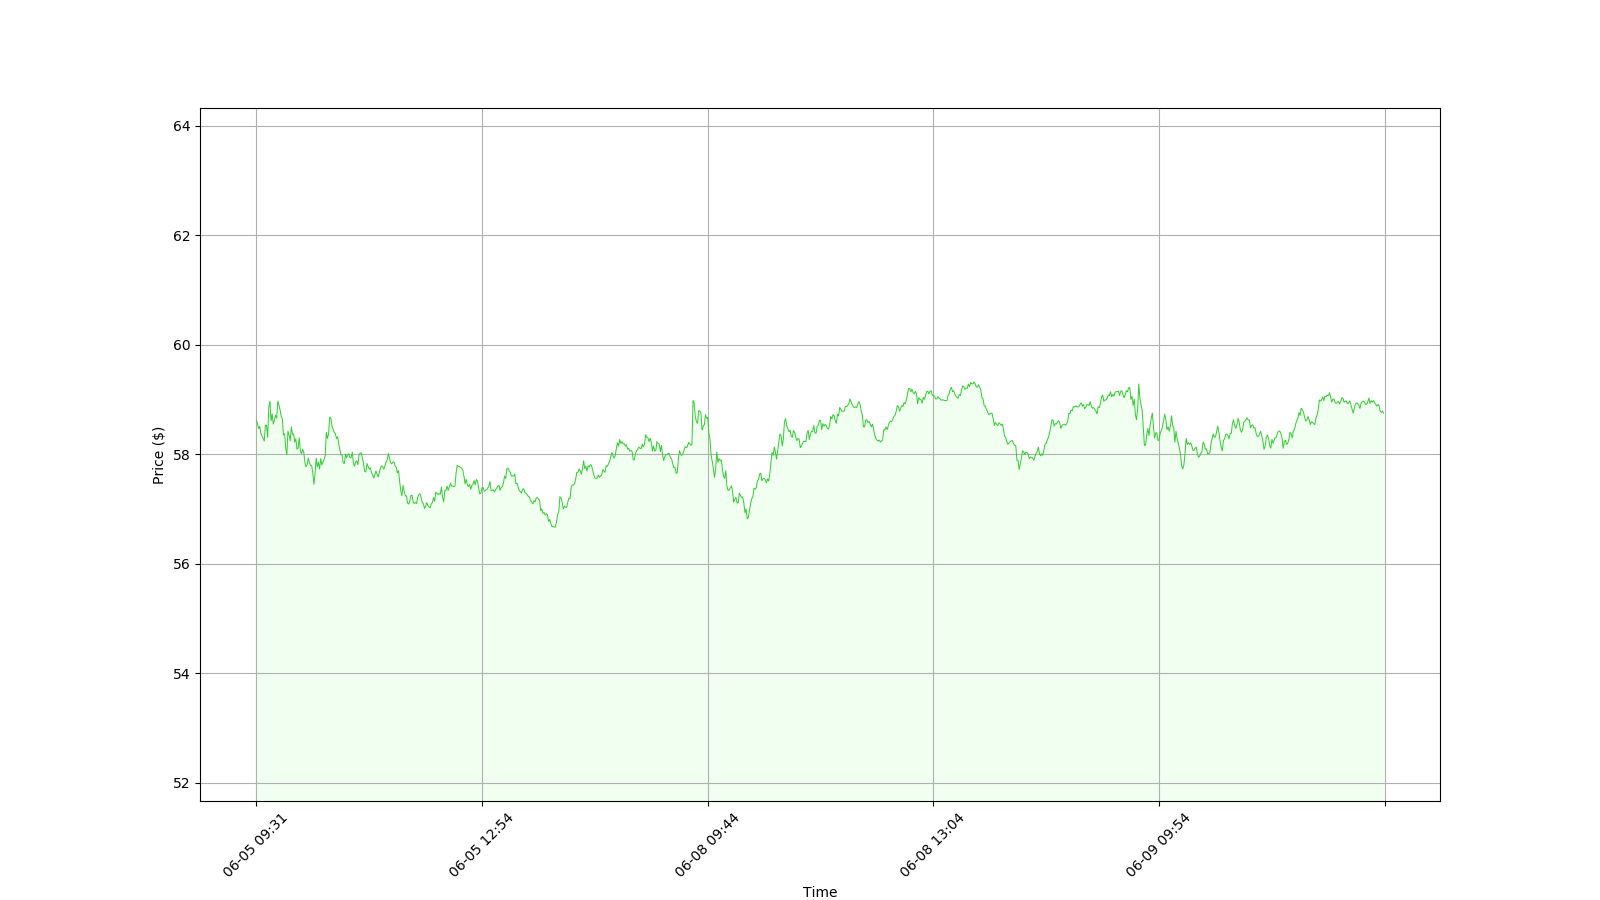
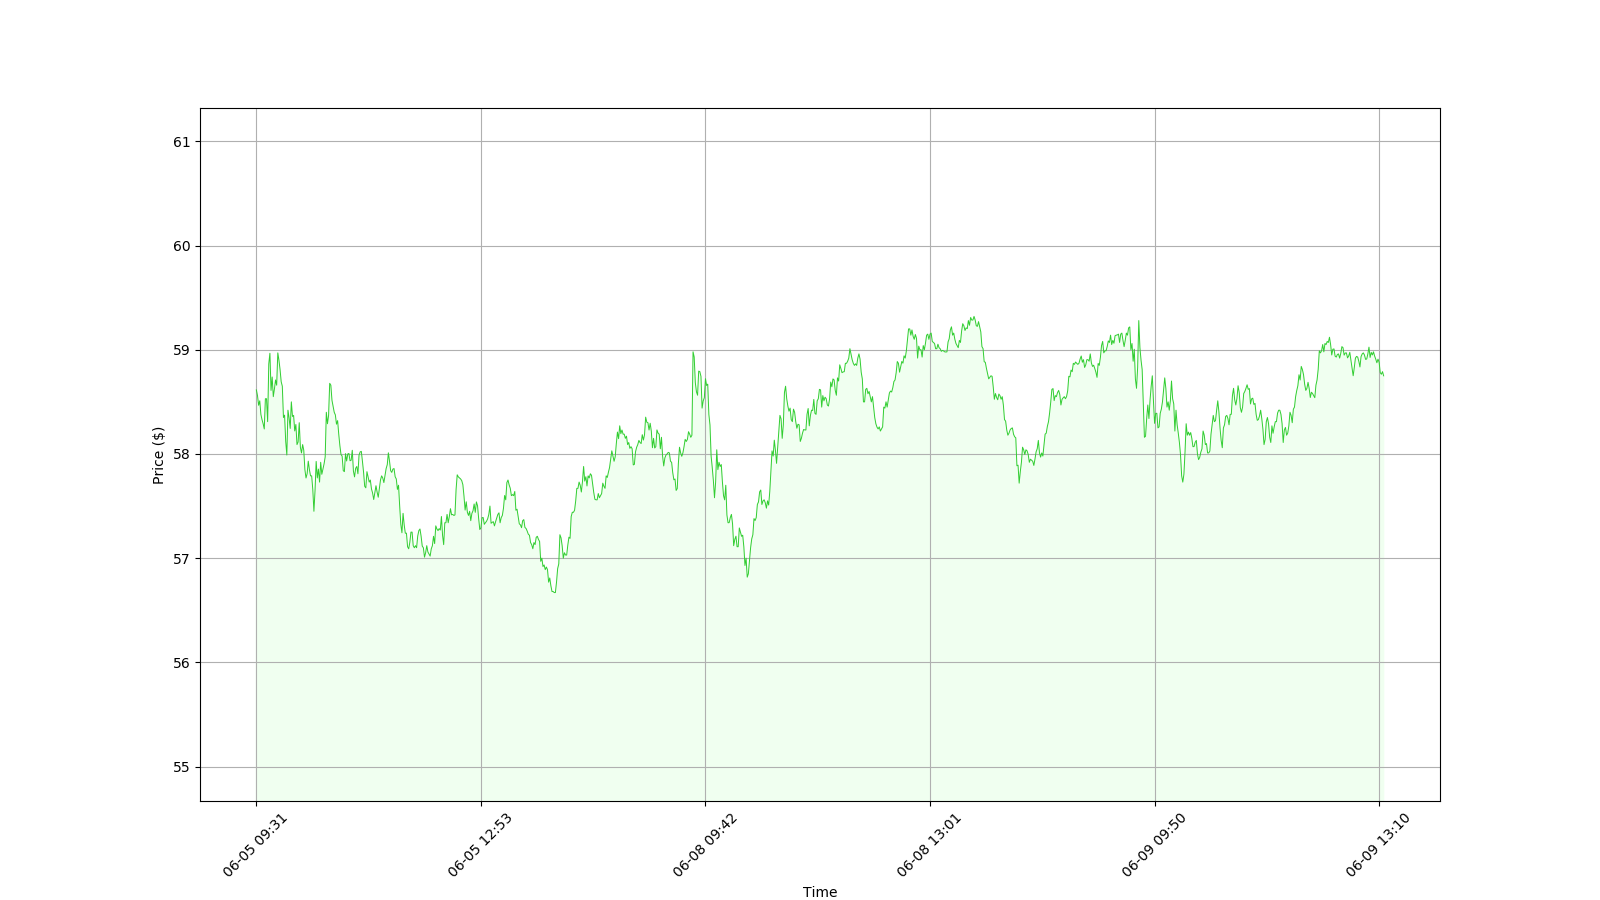
modifications to graph

diff --git a/py_folder/websearch.py b/py_folder/websearch.py
@@ -47,6 +47,7 @@ class WebSearch():
     def api_call(self,symbol,apikey):
         ts = TimeSeries(key=apikey)
         data, meta_data = ts.get_intraday(symbol, interval = '1min', outputsize = 'full')
+        print(data)
         return data
 
 
@@ -57,8 +58,8 @@ class WebSearch():
             close_price = v['4. close']
             new_records.append((k,close_price))
 
-        # format will be in [(time1,price1),(time2,price2)] in time order 
-        new_records.reverse()
+        # format will be in [(time1,price1),(time2,price2)]
+        new_records
         return new_records
     
 
@@ -76,6 +77,8 @@ class WebSearch():
             y_axis.append(float(records[i][1]))
             count += 1
         
+        x_axis.reverse()   # time order from least to most recent 
+        y_axis.reverse()   
         color = ['darkred','darkorange','limegreen','royalblue','darkviolet']
         background = ['mistyrose','navajowhite','honeydew','paleturquoise','lavender']
 
@@ -85,7 +88,7 @@ class WebSearch():
 
         plt.xlabel('Time')
         plt.xticks(rotation=45)
-        loc = plticker.MultipleLocator(base=len(x_axis)//5)
+        loc = plticker.MultipleLocator(base=len(x_axis)//5-1)
         ax.xaxis.set_major_locator(loc)
         plt.ylabel('Price ($)')
         plt.grid(True)
